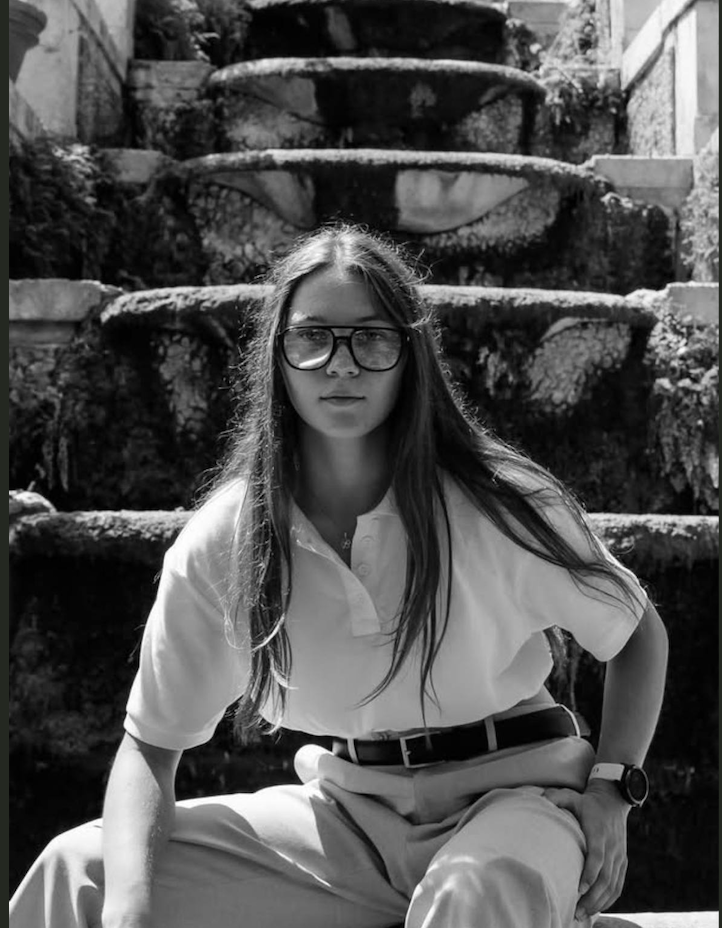
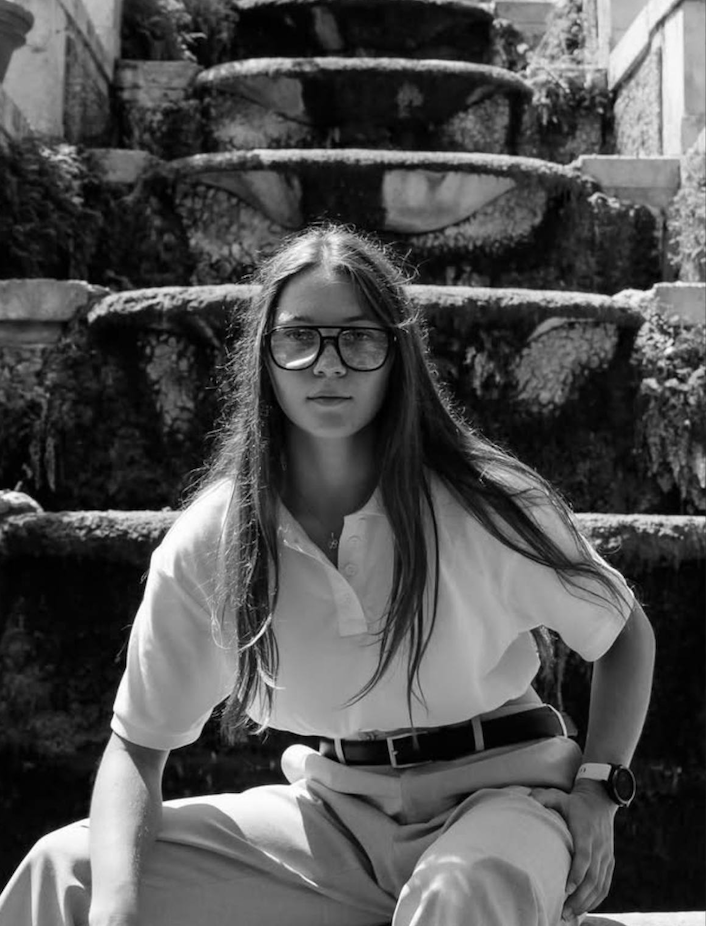
v2 fix

diff --git a/src/pages/Home.tsx b/src/pages/Home.tsx
@@ -88,6 +88,9 @@ export default function Home() {
                                     variant="contained"
                                     startIcon={<PlayCircleOutlineIcon />}
                                     size="large"
+                                    component="a"
+                                    href="/images/demo.mp4"
+                                    target="_blank"
                                     sx={{
                                         py: 1.5,
                                         px: 4,
@@ -273,7 +276,7 @@ export default function Home() {
                 alignItems: "center",
                 py:8
             }}>
-                <Container maxWidth="lg" sx={{ width: "50%" }}>
+                <Container maxWidth="xl" sx={{ px: { xs:3, md:8 } }}>
                     <Typography
                         variant="h3"
                         textAlign="center"
@@ -312,7 +315,7 @@ export default function Home() {
                             title: "Mesh Reconstruction",
                             description: "Poisson surface reconstruction for watertight, production-ready models."
                         }].map((feat, idx) => (
-                            <Grid size={{xs:12, md:6}} key={idx} sx={{ display: "flex" }}>
+                            <Grid size={{xs:12, md:6, lg:4}} key={idx} sx={{ display: "flex" }}>
                                 <Card
                                     sx={{
                                         width: "100%",

diff --git a/src/pages/About.tsx b/src/pages/About.tsx
@@ -207,8 +207,6 @@ export default function About() {
             </Box>
 
             <Footer />
-
-            <Footer />
         </Box>
     );
 }
